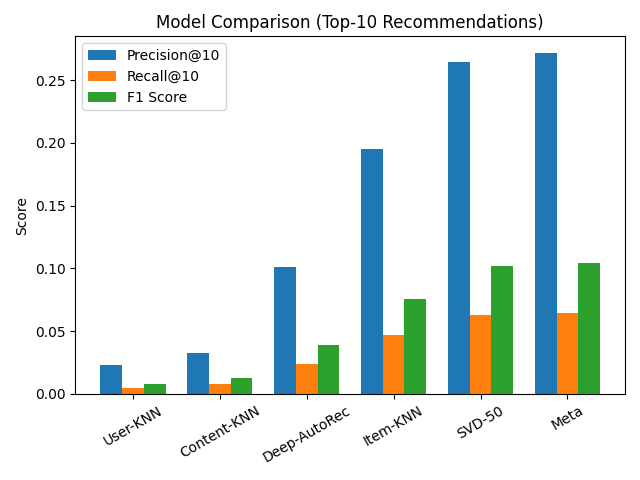
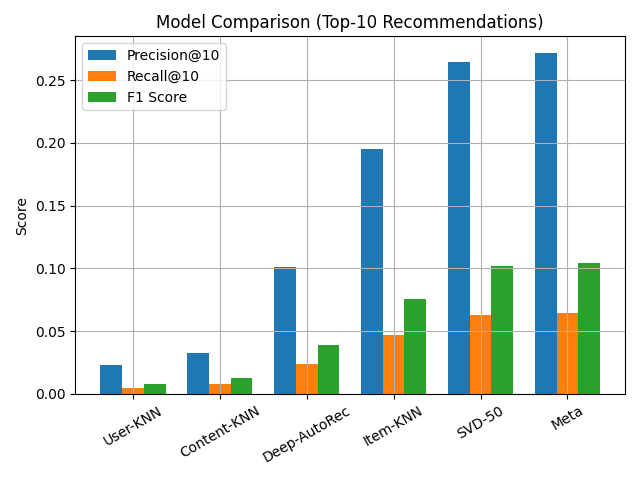
Updated visualizations

diff --git a/models/meta/visualize.py b/models/meta/visualize.py
@@ -114,6 +114,7 @@ def visualize_confusion():
     plt.ylabel("Score")
     plt.title("Model Comparison (Top-10 Recommendations)")
     plt.legend()
+    plt.grid()
 
     plt.tight_layout()
     #plt.show()
@@ -139,8 +140,9 @@ def main():
 
     #visualize_weight_correlations()
     #visualize_grid()
-    #visualize_confusion()
-    visualize_comparison_scatter()
+    visualize_confusion()
+    #visualize_comparison_scatter()
+
     
 
 if __name__ == "__main__":
